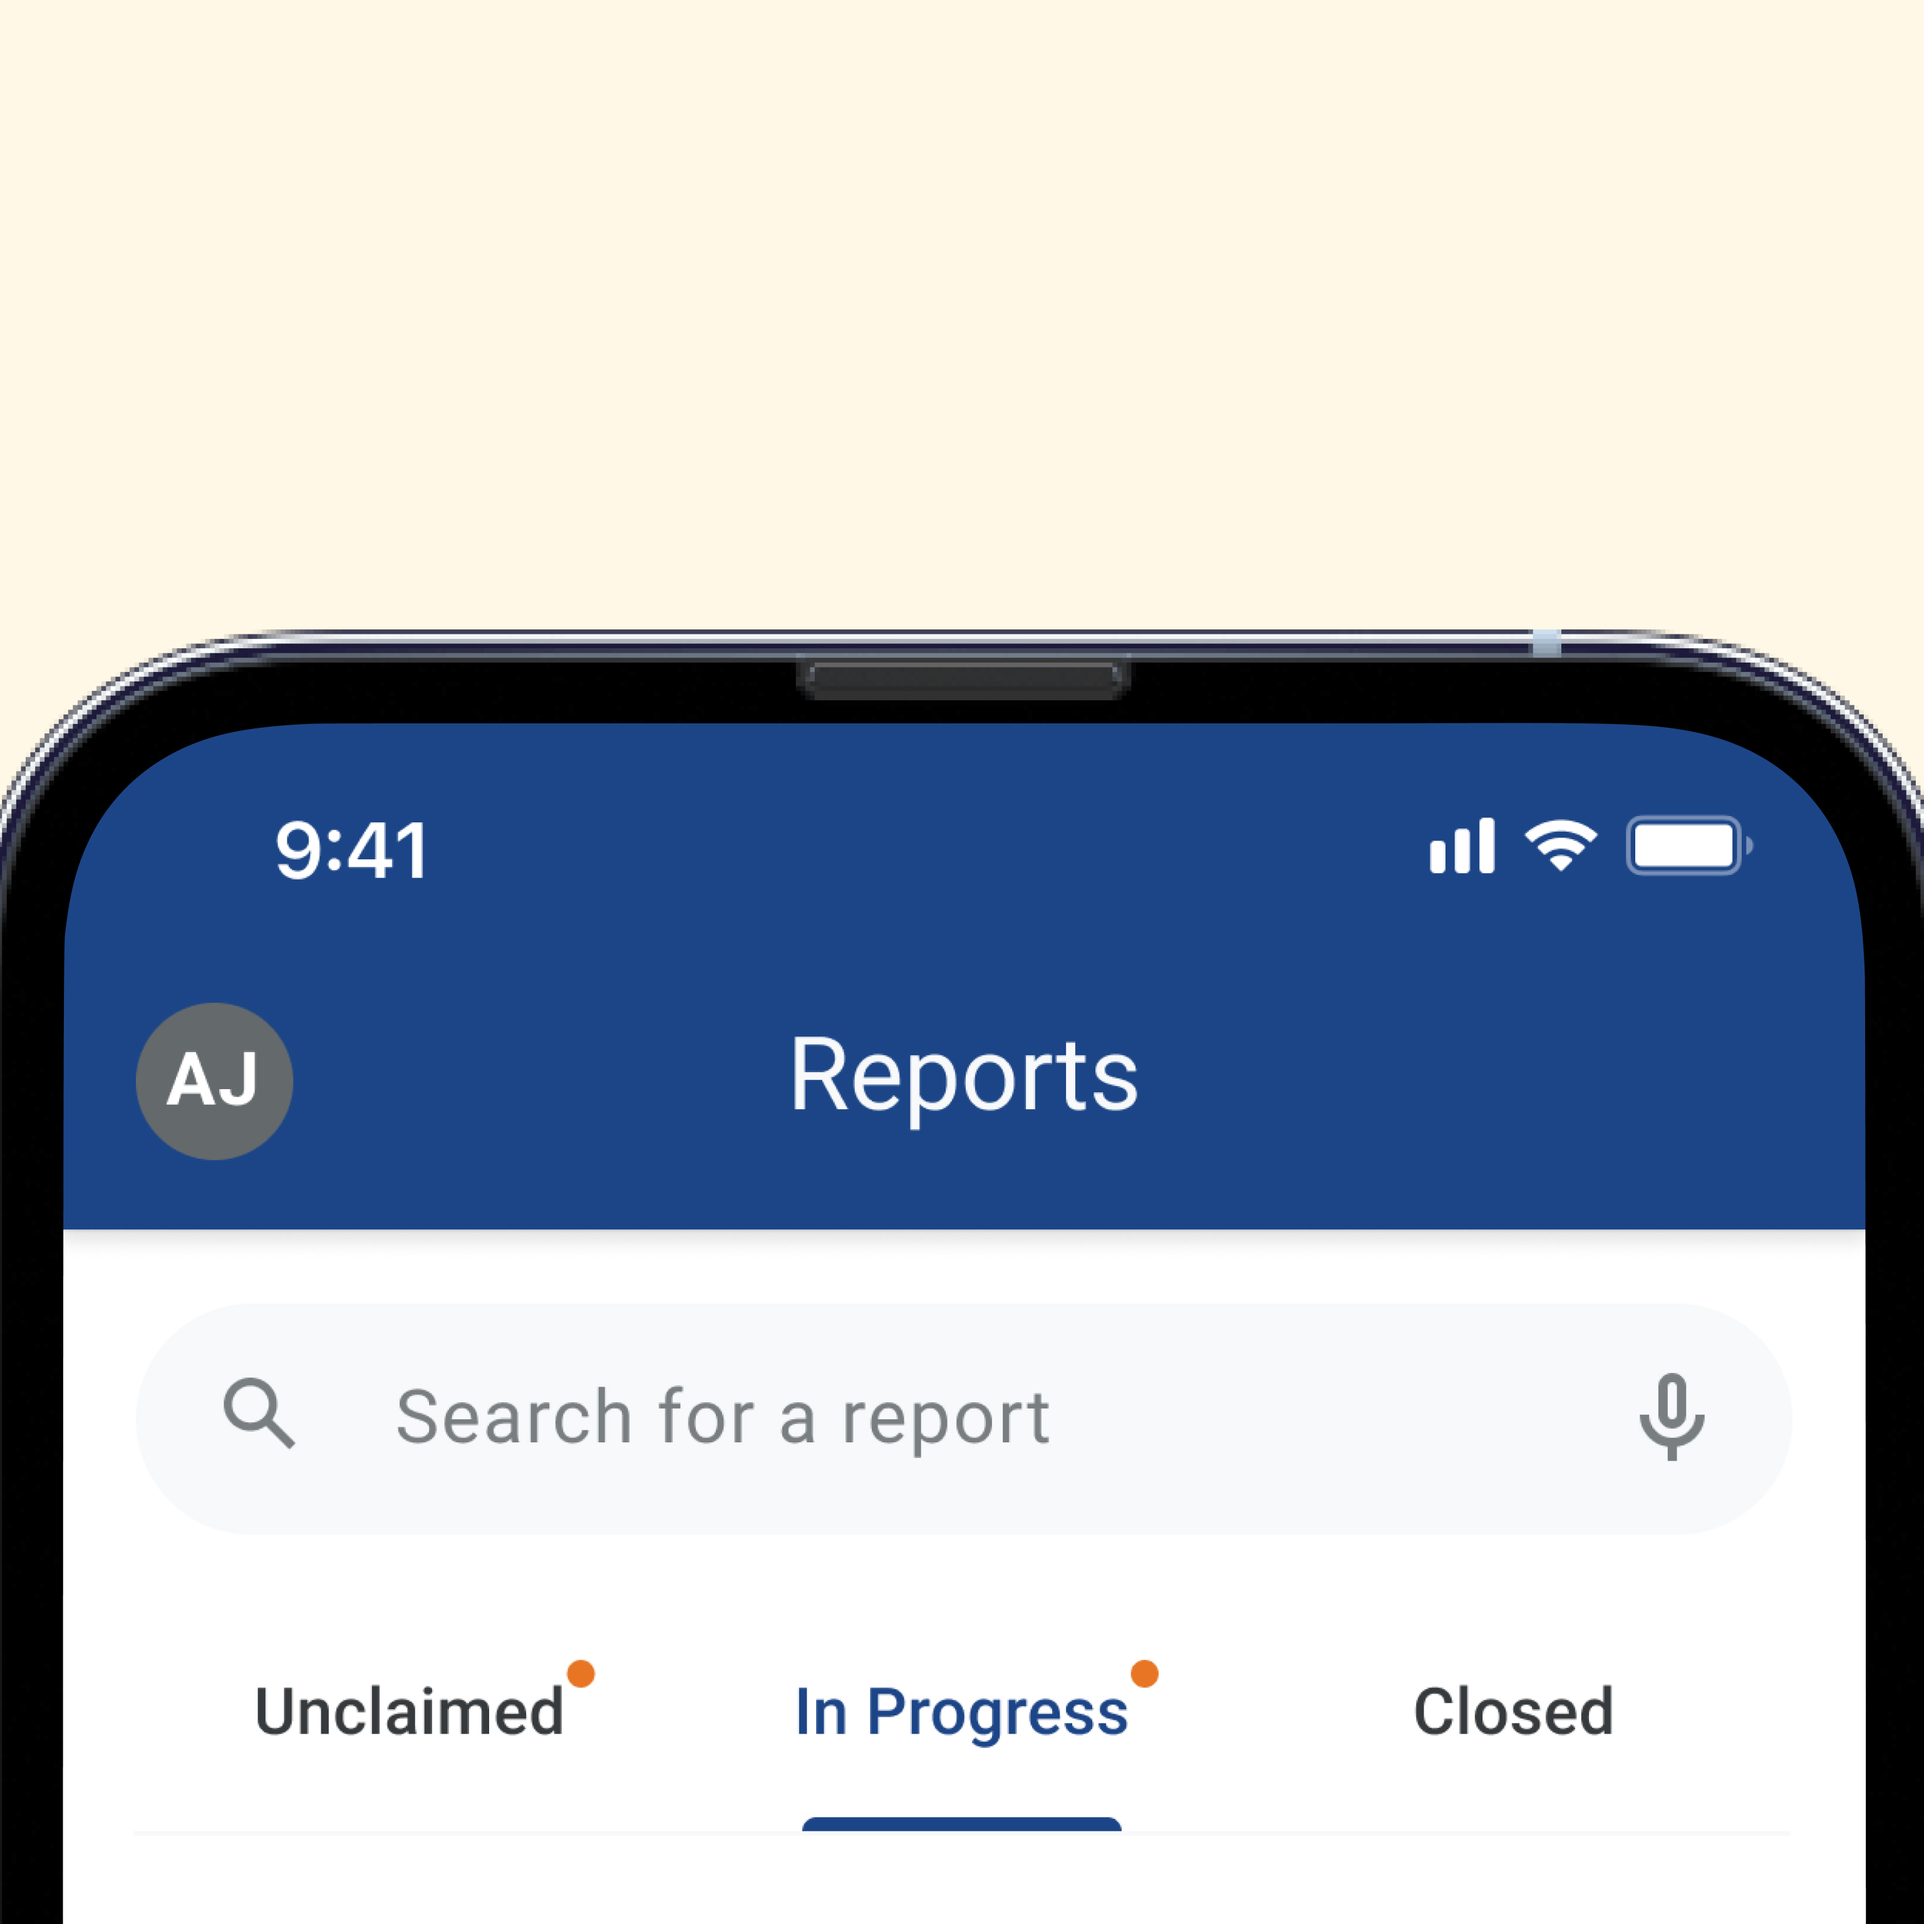
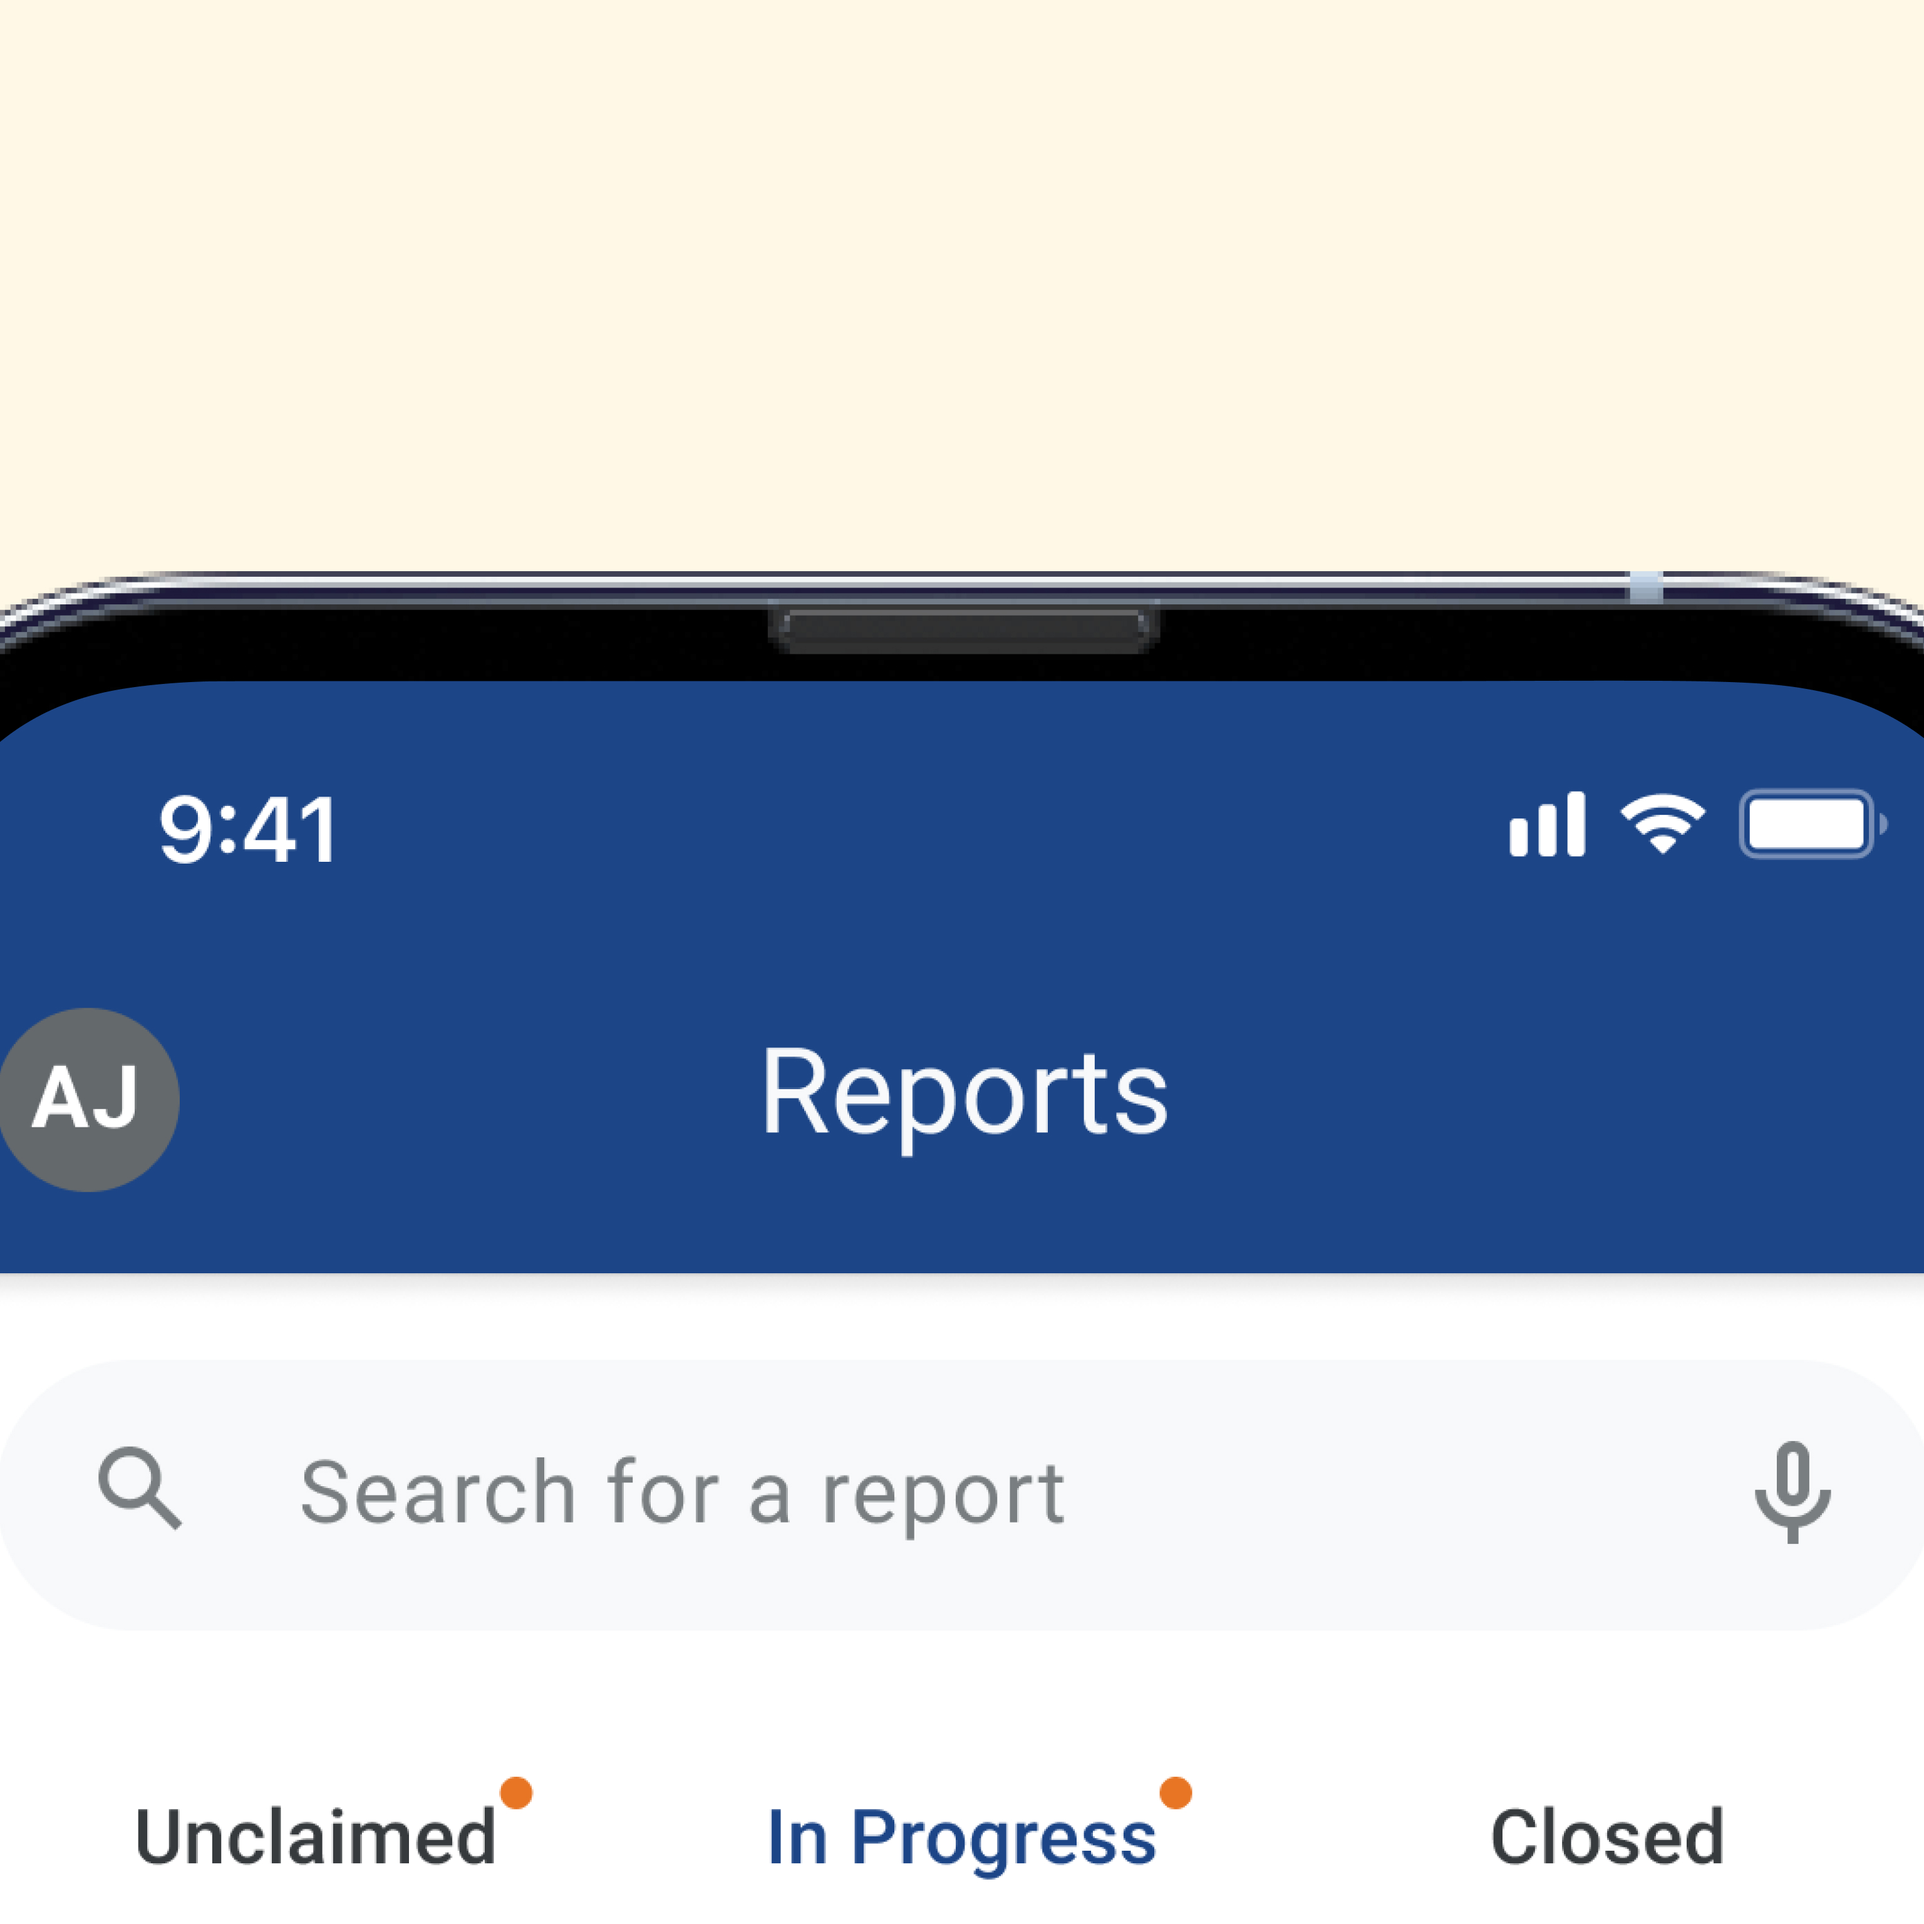
refactor: update project files and restore v371
Restore project from v371 and update various components, pages, and assets.

#VERCEL_SKIP

diff --git a/app/case-study/philly-truce/page.tsx b/app/case-study/philly-truce/page.tsx
@@ -370,9 +370,7 @@ export default function PhillyTruceCaseStudy() {
                     />
                   </div>
                   <h4 className="font-medium mb-2">Action button confused users</h4>
-                  <p className="text-muted-foreground text-base">
-                    Button size and placement caused user confusion.
-                  </p>
+                  <p className="text-muted-foreground text-base">Button size and placement caused user confusion.</p>
                 </div>
                 <div>
                   <div
@@ -397,10 +395,33 @@ export default function PhillyTruceCaseStudy() {
                   </p>
                 </div>
               </div>
+
+              <div className="pt-16">
+                <div
+                  className="relative rounded-lg overflow-hidden cursor-pointer hover:opacity-90 transition-opacity border border-gray-200 mb-4 w-full h-auto"
+                  onClick={() =>
+                    setLightboxImage({
+                      src: "/images/Before-search.jpg",
+                      alt: "Search bar took up significant space in the reports list",
+                    })
+                  }
+                >
+                  <Image
+                    src="/images/Before-search.jpg"
+                    alt="Search bar took up significant space in the reports list"
+                    width={1140}
+                    height={600}
+                    className="w-full h-auto"
+                  />
+                </div>
+                <h4 className="font-medium mb-2">Search consumed valuable screen space</h4>
+                <p className="text-muted-foreground text-base">
+                  The search bar occupied a large portion of the mobile screen, limiting visibility of reports.
+                </p>
+              </div>
             </div>
           </div>
         </div>
-
 
         {/* Explore More Work */}
         <div className="bg-background py-24 animate-on-load animate-fade-in-up animate-delay-1000">
